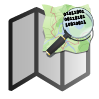
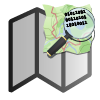
Add a soft dark mode...

diff --git a/MecyApplication/MainWindow.xaml b/MecyApplication/MainWindow.xaml
@@ -9,7 +9,7 @@
         mc:Ignorable="d"
         Title="Mecy"
         Height="1080" Width="1920"
-        Background="#FFE8E8E8"
+        Background="#FFC8C8C8"
         Closing="Window_Closing"
         WindowState="Maximized"
         WindowStartupLocation="CenterScreen">
@@ -30,8 +30,8 @@
                           Command="{Binding ShowAboutWindowCommand}"/>
             </Menu>
 
-            <ToolBarTray IsLocked="True">
-                <ToolBar Height="50">
+            <ToolBarTray IsLocked="True" Background="#FFA2A2A2">
+                <ToolBar Height="50" Background="#FFBDBDBD">
                     <Button Command="{Binding DownloadDataCommand}"
                             ToolTip="Download data from OpenData server">
                         <Image Source="Resources/ToolbarDownload.png" />
@@ -216,7 +216,7 @@
                         <Border.Background>
                             <LinearGradientBrush EndPoint="0.5,1" StartPoint="0.5,0">
                                 <GradientStop Color="#FFE1A3FF" Offset="0"/>
-                                <GradientStop Color="White" Offset="1"/>
+                                <GradientStop Color="#FFBDBDBD" Offset="1"/>
                             </LinearGradientBrush>
                         </Border.Background>
                         <Image Source="Resources/LogoWithoutSubtitle.png" />
